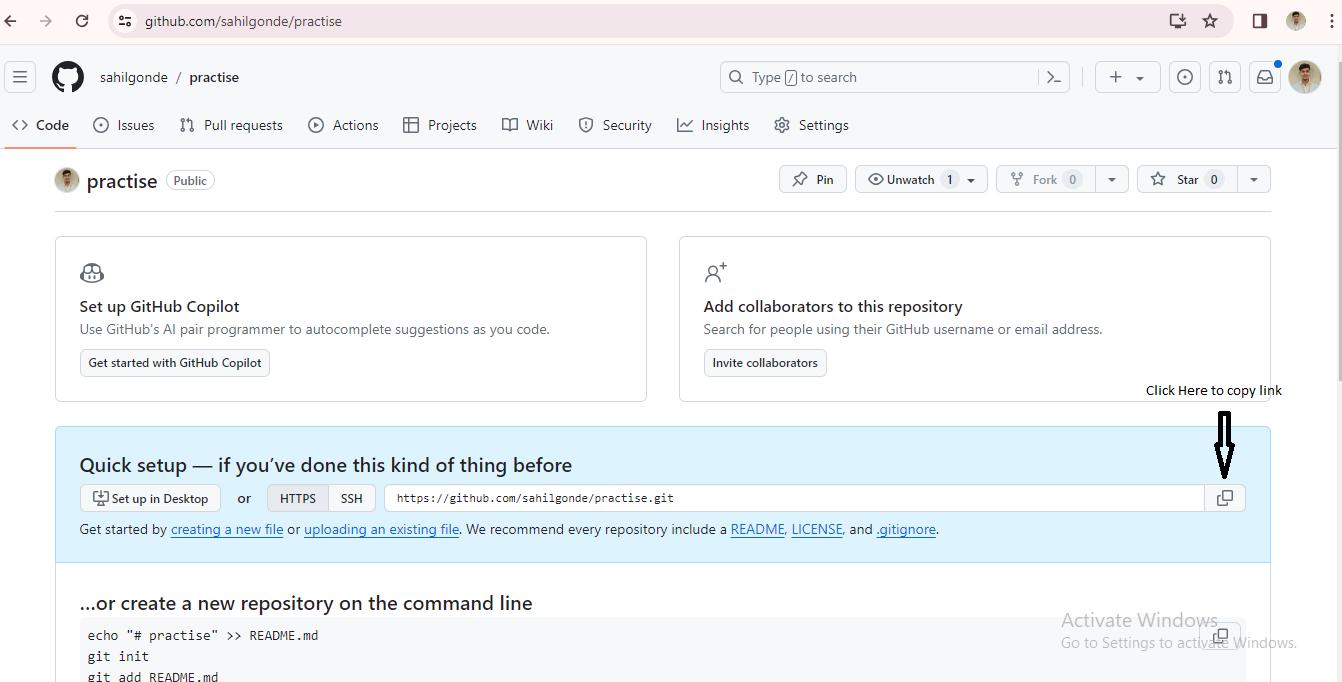
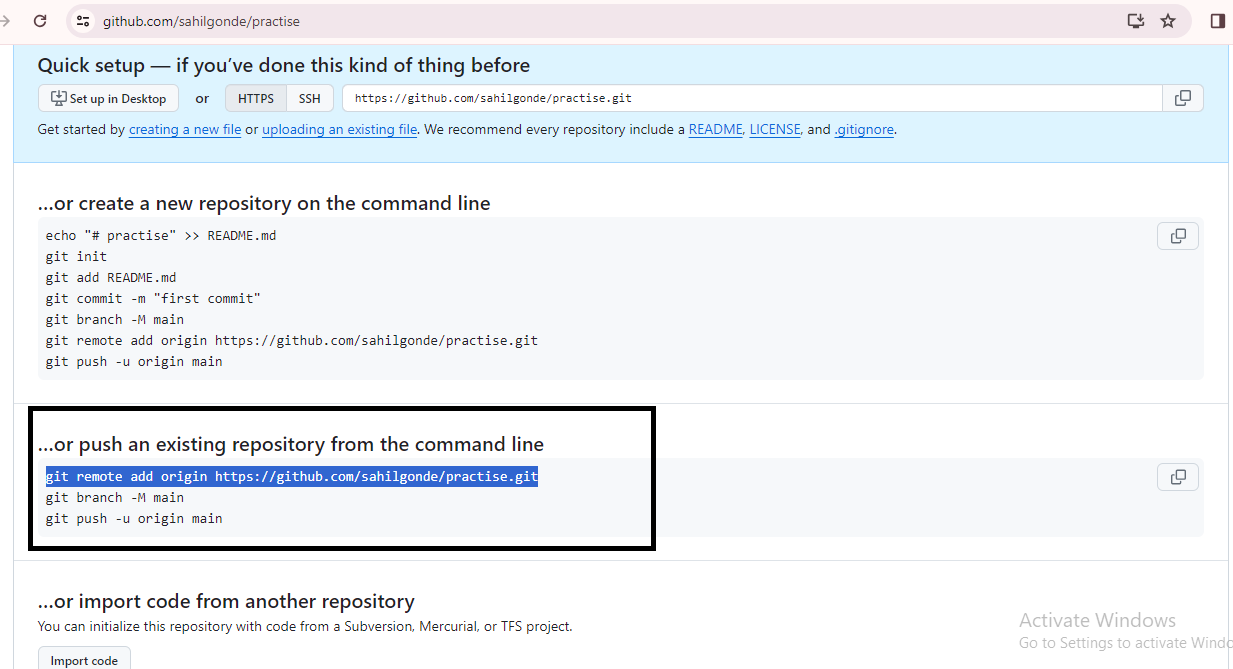
added explanation

diff --git a/docs/github/05-git-and-github-commands/05-git-and-github-commands.md b/docs/github/05-git-and-github-commands/05-git-and-github-commands.md
@@ -46,28 +46,34 @@ git init
 
 2. ### Check git status :
 
-   By using given command chech the git status 
+   This command is used to check the status of git repository  like if any nodification done then it will track it.
 
 ```html
 git status
 ```
 
 3. ### Add a changes in file 
-   By usint given commands add changes in github repositary , changes can be add by two methods :
+   By using given commands you can add changes in github repository , changes can be add by two methods :
+   1. `git add .` :- When more than one file is changed , this command is used.
+   2. `git add <file name>` :- When only one file change , this command is used.
 
 ```html
-git add .   or   git add <file name>
+git add .
+```
+
+```html
+git add <file name>
 ```
 
 4. ### Commit changes 
-   By using given command you can commit  the changes which occured in code  :
+   After changing or modifying any file we have to add code , after modifying code we have to add commit for showing what changes in repository
 
 ```html
-git commit -m "message "
+git commit -m "add a message "
 ```
 
 5. ### Push the changes:
-   By using given command you can push the changes :
+   By using this command code can be push in github repository after creating repository
 
 ```html
 git push
@@ -75,42 +81,40 @@ git push
 After this error will come it will then we have to add github repositary where we have to add the code
 
 6. ### Create a repositary :
-   [click here](http://localhost:3000/docs/github/how-to-create-repository/)
+   Create repository  if dont know how to create repository then [click here](http://localhost:3000/docs/github/how-to-create-repository/)
    to watch steps for creating repository
 
-7. ### Copy link after creating repositary
+7. ### Copy command lines 
 
 ![link img](./s1.png)
 
 
-## Connecting local Repository to Github Repository
-
-1. ### use the following command to connect local repo to github repo
+8. ### Use the following command to connect local repo to github repo
 
 ```html
 git remote add origin <repository url>
 ```
-2. ### use follwing command to push code
+9. ### Use follwing command to push code
 
 ```html
 git push
 ```
-3. ### copy the command from terminal
+10. ### Copy the command from terminal
 
 ```html
 git push --set-upstream origin master
 ```
-4. ### After adding this command on terminal your code will be pushed on github Repository
+11. ### After adding this command on terminal your code will be pushed on github Repository
 
  Code added in Repositary  successfully.
 
-5. ### After adding file modified changes can be added by using:
+12. ### After adding file modified changes can be added by using:
 
 ```html
 git add .
 git commit -m "changes message"
 ```
-6. ### After adding and commiting changes push the changes
+13. ### After adding and commiting changes push the changes
 
 ```html
 git push
